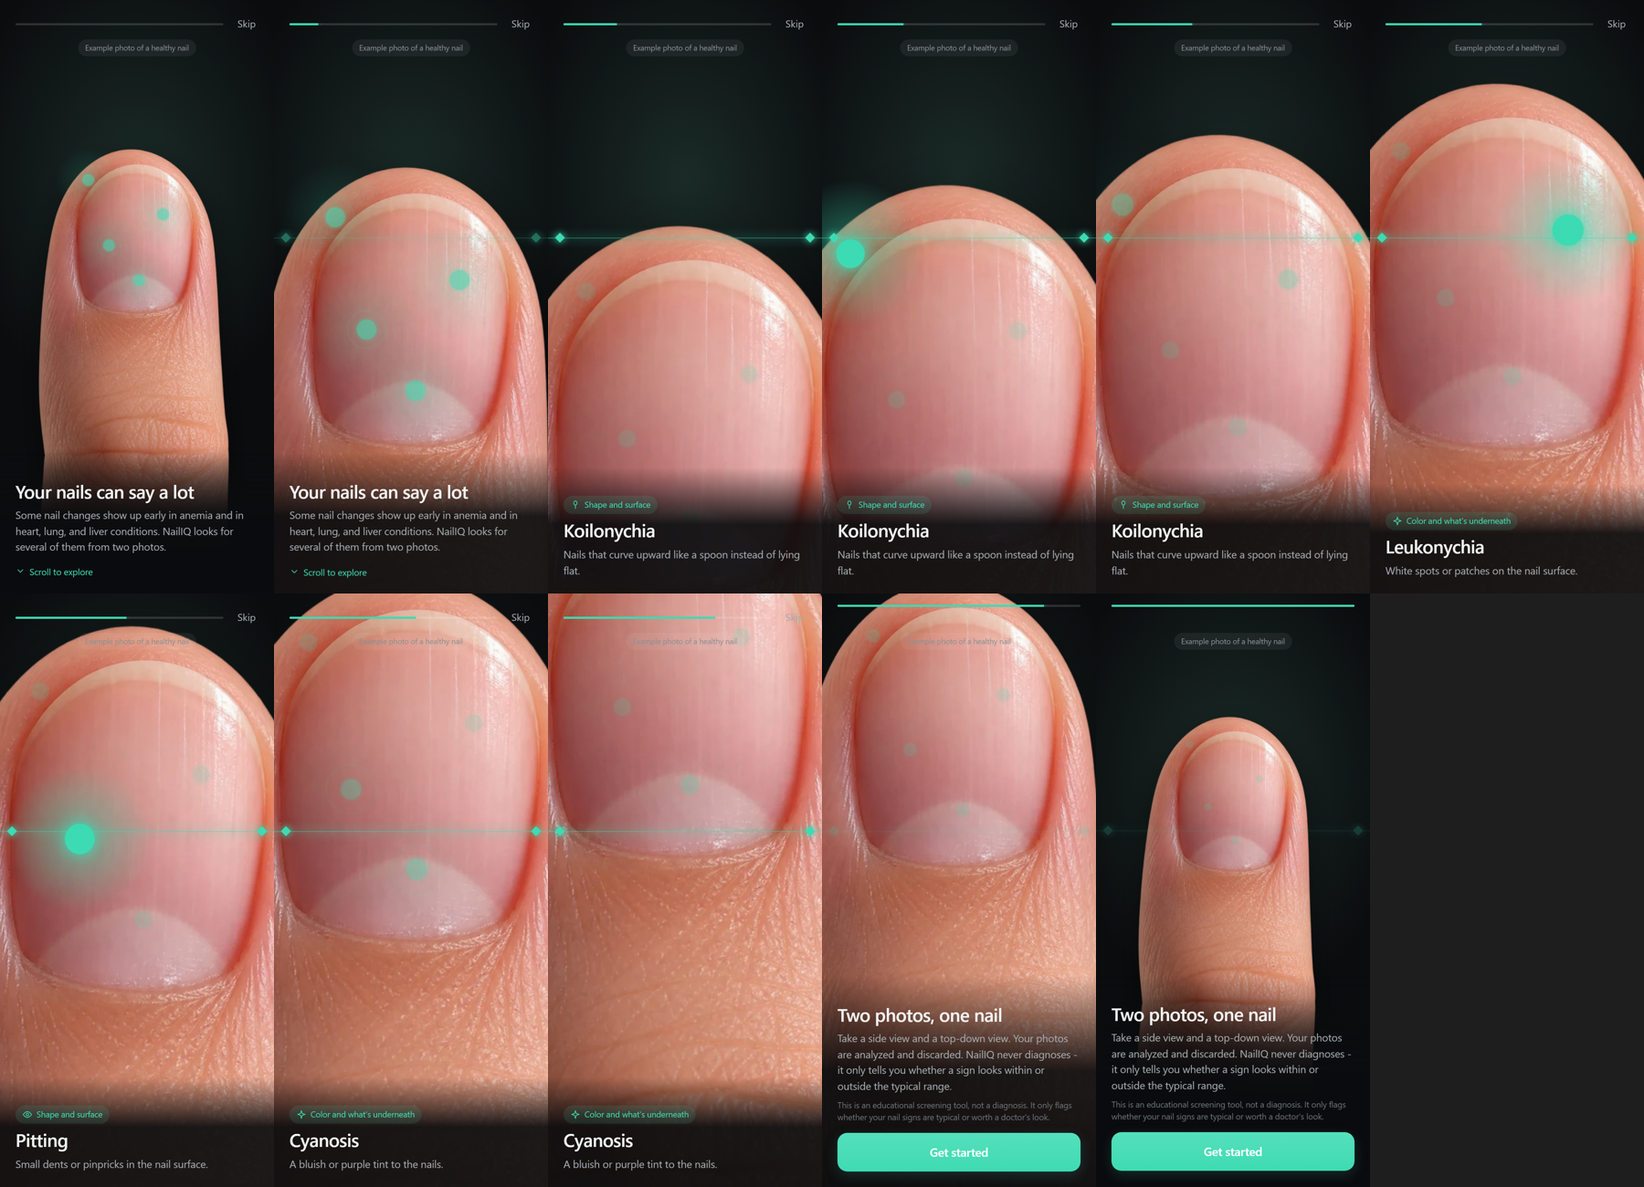
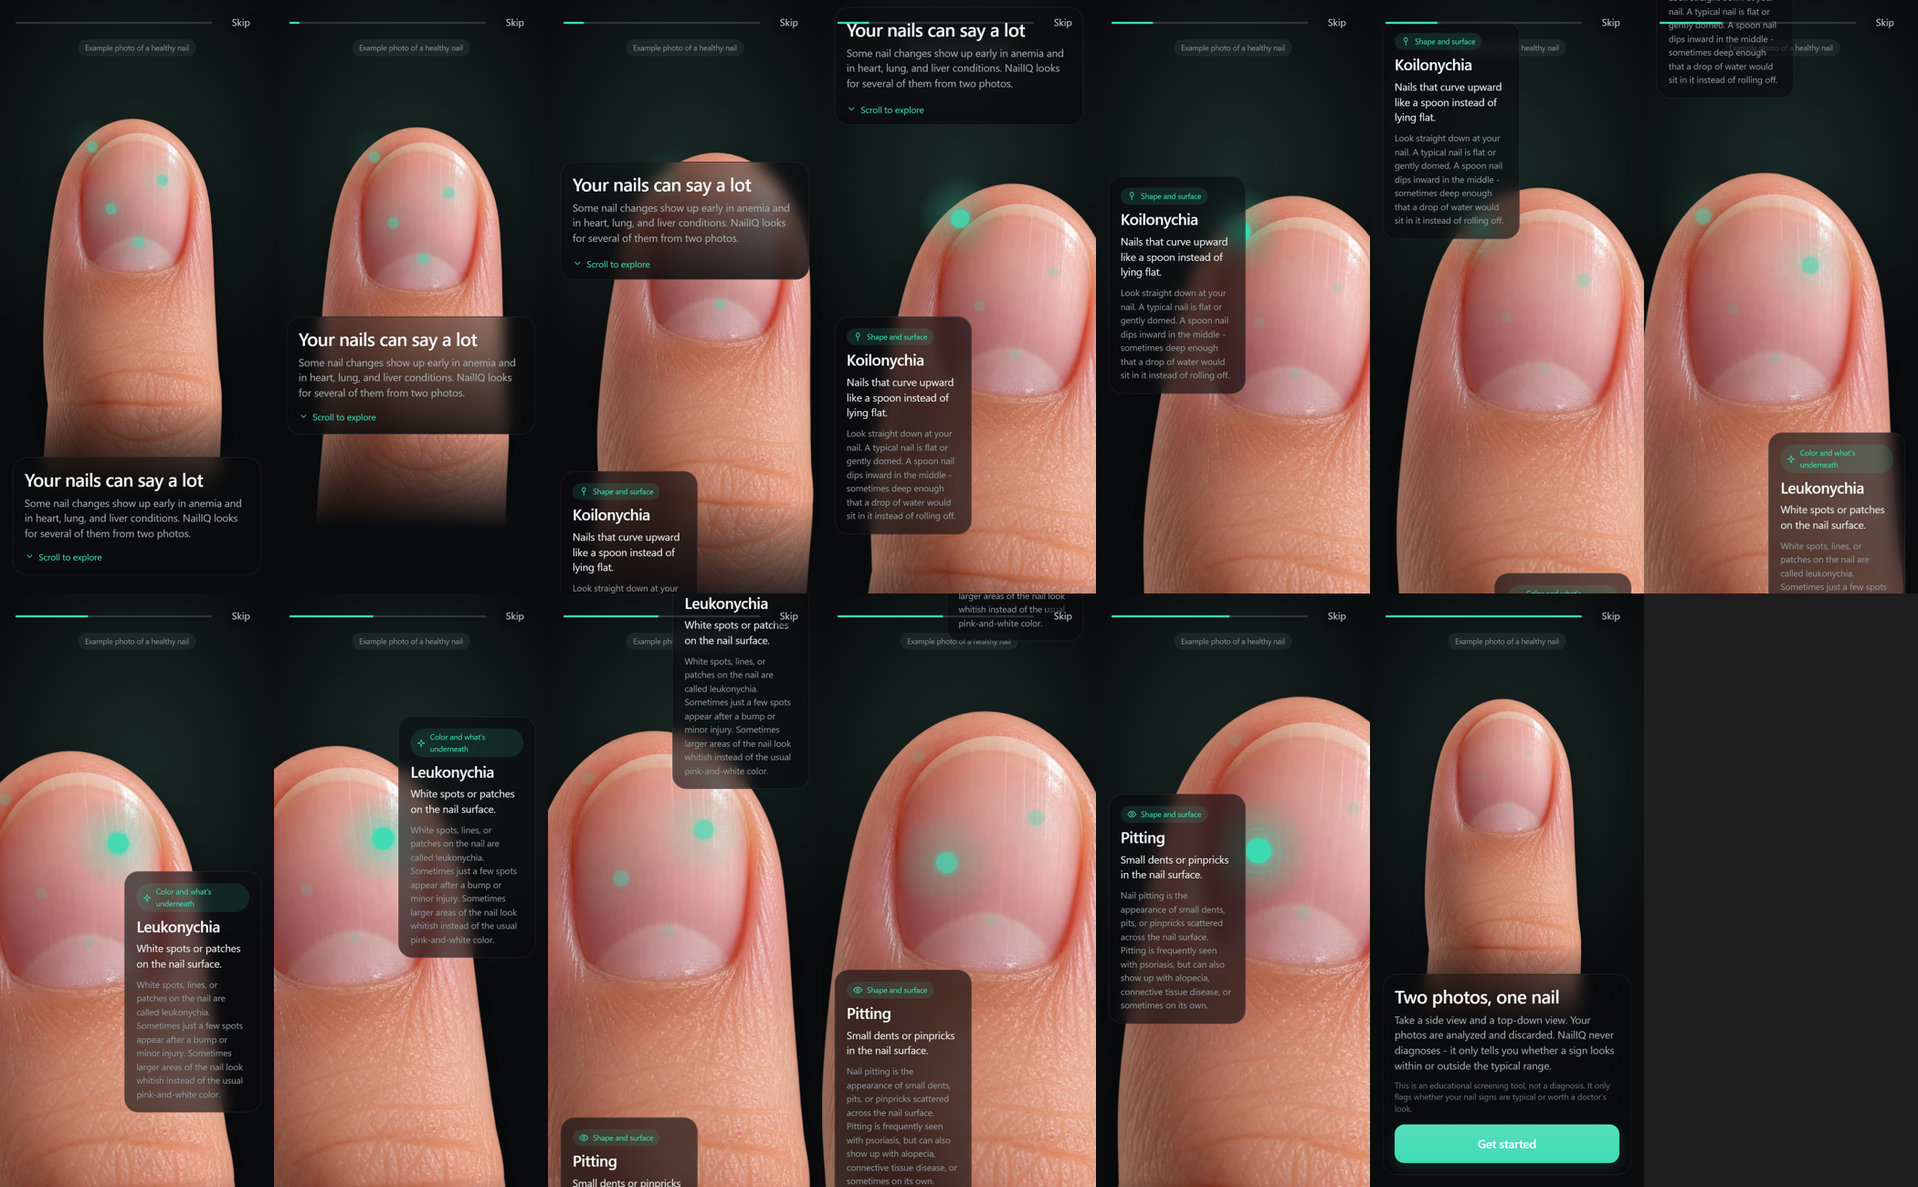
Onboarding: scrollytelling layout - text scrolls like a page, sticky nail glides to each section's pose

diff --git a/frontend/src/components/Onboarding.jsx b/frontend/src/components/Onboarding.jsx
@@ -10,29 +10,26 @@ import nailPhoto from '../assets/onboarding-nail.webp'
 const IMG_W = 900
 const IMG_H = 1820
 const IMG_AR = IMG_W / IMG_H
-const SIGNS = [
-  { key: 'koilonychia', x: 0.3, y: 0.27, group: 'shape' },
-  { key: 'leukonychia', x: 0.6, y: 0.34, group: 'color' },
-  { key: 'pitting', x: 0.38, y: 0.4, group: 'shape' },
-  { key: 'cyanosis', x: 0.5, y: 0.47, group: 'color' },
-]
+const NAIL_X = 0.49
 
-// Camera path, in terms of which point of the photo sits on the fixed scan line (REF_Y of the screen): zoom in to the
-// fingertip (intro), glide DOWN the finger through the signs (travel), pull back out (outro).
-const REF_Y = 0.4
-const FOCUS_X = 0.49
-const START = { s: 0.85, cy: 0.385 }
-const TOP = { s: 1.9, cy: 0.22 }
-const BOTTOM = { s: 1.9, cy: 0.52 }
-const END = { s: 0.8, cy: 0.45 }
-const NEAR_WINDOW = 0.045 // how close (photo fraction) a point must be to the scan line to light up
+// One scroll section each: the text scrolls like a normal page while the sticky photo glides to that section's pose.
+// `side` is where the text sits; the nail moves to the opposite side. tx/ty are where the focus point lands on screen.
+const SECTIONS = [
+  { id: 'welcome', wide: true, focus: { x: NAIL_X, y: 0.385 }, tx: 0.5, ty: 0.34, s: 0.8, r: 0 },
+  { id: 'koilonychia', side: 'left', group: 'shape', focus: { x: NAIL_X, y: 0.27 }, tx: 0.76, ty: 0.4, s: 1.15, r: 5, dot: { x: 0.3, y: 0.27 } },
+  { id: 'leukonychia', side: 'right', group: 'color', focus: { x: NAIL_X, y: 0.34 }, tx: 0.24, ty: 0.42, s: 1.25, r: -5, dot: { x: 0.6, y: 0.34 } },
+  { id: 'pitting', side: 'left', group: 'shape', focus: { x: NAIL_X, y: 0.4 }, tx: 0.76, ty: 0.44, s: 1.4, r: 5, dot: { x: 0.38, y: 0.4 } },
+  { id: 'cyanosis', side: 'right', group: 'color', focus: { x: NAIL_X, y: 0.45 }, tx: 0.24, ty: 0.4, s: 1.25, r: -5, dot: { x: 0.5, y: 0.47 } },
+  { id: 'photos', wide: true, focus: { x: NAIL_X, y: 0.385 }, tx: 0.5, ty: 0.3, s: 0.7, r: 0 },
+]
+const SIGN_SECTIONS = SECTIONS.filter((s) => s.dot)
 
 const ease = (x) => x * x * (3 - 2 * x)
 const lerp = (a, b, t) => a + (b - a) * t
 const clamp01 = (x) => Math.min(1, Math.max(0, x))
 
 // The example nail photo with the sign points drawn over it (SVG in the photo's own coordinates).
-function NailPhoto({ near, mode }) {
+function NailPhoto({ near }) {
   return (
     <div className="ob-nail">
       <img className="ob-nail-img" src={nailPhoto} alt="" draggable="false" />
@@ -43,12 +40,12 @@ function NailPhoto({ near, mode }) {
             <stop offset="1" stopColor="#3ddbb3" stopOpacity="0" />
           </radialGradient>
         </defs>
-        {SIGNS.map((p) => (
+        {SIGN_SECTIONS.map((p) => (
           <g
-            key={p.key}
-            className={`ob-point ${near[p.key] > 0.6 ? 'is-active' : ''}`}
-            style={{ '--near': mode === 'none' ? 0 : near[p.key] }}
-            transform={`translate(${p.x * IMG_W} ${p.y * IMG_H})`}
+            key={p.id}
+            className={`ob-point ${near[p.id] > 0.6 ? 'is-active' : ''}`}
+            style={{ '--near': near[p.id] }}
+            transform={`translate(${p.dot.x * IMG_W} ${p.dot.y * IMG_H})`}
           >
             <circle className="ob-point-zone" r="120" fill="url(#obZone)" />
             <circle className="ob-point-ring" r="40" />
@@ -64,13 +61,14 @@ export default function Onboarding({ onDone }) {
   const { t } = useI18n()
   const scrollerRef = useRef(null)
   const [size, setSize] = useState({ W: 390, H: 844 })
-  const [y, setY] = useState(0) // scroll position in px
+  const [y, setY] = useState(0)
   const reduced = typeof document !== 'undefined' && document.documentElement.classList.contains('a11y-reduce-motion')
 
-  const intro = size.H * 0.5
-  const travel = size.H * 0.95
-  const outro = size.H * 0.5
-  const total = intro + travel + outro
+  // section heights (px) and the scroll position at which each section's text is centered
+  const heights = SECTIONS.map((sec) => (sec.id === 'welcome' ? size.H : size.H * 0.95))
+  const tops = heights.map((_, i) => heights.slice(0, i).reduce((a, b) => a + b, 0))
+  const maxScroll = heights.reduce((a, b) => a + b, 0) - size.H
+  const anchors = SECTIONS.map((_, i) => Math.min(maxScroll, Math.max(0, tops[i] + heights[i] / 2 - size.H / 2)))
 
   useEffect(() => {
     const el = scrollerRef.current
@@ -85,107 +83,112 @@ export default function Onboarding({ onDone }) {
   useEffect(() => {
     const el = scrollerRef.current
     if (!el) return
-    const onScroll = () => setY(Math.min(total, Math.max(0, el.scrollTop)))
+    const onScroll = () => setY(el.scrollTop)
     onScroll()
     el.addEventListener('scroll', onScroll, { passive: true })
     return () => el.removeEventListener('scroll', onScroll)
-  }, [total])
+  }, [])
 
-  // continuous camera: no steps, so scrolling reads as moving down the finger
-  let s
-  let cy
-  if (y < intro) {
-    const u = ease(y / intro)
-    s = lerp(START.s, TOP.s, u)
-    cy = lerp(START.cy, TOP.cy, u)
-  } else if (y < intro + travel) {
-    const u = (y - intro) / travel
-    s = TOP.s
-    cy = lerp(TOP.cy, BOTTOM.cy, u)
-  } else {
-    const u = ease((y - intro - travel) / outro)
-    s = lerp(BOTTOM.s, END.s, u)
-    cy = lerp(BOTTOM.cy, END.cy, u)
+  // which two sections we are between, and how far (0..1) toward the next
+  let i = 0
+  while (i < SECTIONS.length - 2 && y >= anchors[i + 1]) i += 1
+  const span = Math.max(1, anchors[i + 1] - anchors[i])
+  let u = clamp01((y - anchors[i]) / span)
+  u = reduced ? Math.round(u) : ease(u)
+  const A = SECTIONS[i]
+  const B = SECTIONS[i + 1]
+  const pose = {
+    fx: lerp(A.focus.x, B.focus.x, u),
+    fy: lerp(A.focus.y, B.focus.y, u),
+    tx: lerp(A.tx, B.tx, u),
+    ty: lerp(A.ty, B.ty, u),
+    s: lerp(A.s, B.s, u),
+    r: lerp(A.r, B.r, u),
   }
-  const phase = y < intro * 0.55 ? 'welcome' : y < intro + travel + outro * 0.25 ? 'signs' : 'photos'
-  const mode = phase === 'welcome' ? 'all' : phase === 'photos' ? 'none' : 'focus'
 
+  // each sign's point glows while the camera is on (or arriving at) its section; the welcome view shows them all softly
   const near = {}
-  SIGNS.forEach((p) => {
-    near[p.key] = mode === 'all' ? 0.55 : clamp01(1 - Math.abs(cy - p.y) / NEAR_WINDOW)
+  SIGN_SECTIONS.forEach((p) => {
+    const w = (A.id === p.id ? 1 - u : 0) + (B.id === p.id ? u : 0)
+    const soft = A.id === 'welcome' ? (1 - u) * 0.5 : 0
+    near[p.id] = clamp01(Math.max(w, soft))
   })
-  const current = SIGNS.reduce((best, p) => (Math.abs(cy - p.y) < Math.abs(cy - best.y) ? p : best), SIGNS[0])
 
-  // put photo point (FOCUS_X, cy) on the scan line, scaled about the camera box center
+  // place photo point (fx, fy) at screen (tx, ty); transform is applied about the camera box center
   const Wc = size.H * IMG_AR
-  const dx = -s * (FOCUS_X * Wc - Wc / 2)
-  const dy = REF_Y * size.H - size.H / 2 - s * (cy * size.H - size.H / 2)
-  const scanOpacity = phase === 'signs' ? 1 : phase === 'welcome' ? clamp01((y / intro) * 1.4) * 0.6 : 0.2
+  const px = pose.fx * Wc - Wc / 2
+  const py = pose.fy * size.H - size.H / 2
+  const rad = (pose.r * Math.PI) / 180
+  const rx = Math.cos(rad) * px - Math.sin(rad) * py
+  const ry = Math.sin(rad) * px + Math.cos(rad) * py
+  const dx = pose.tx * size.W - size.W / 2 - pose.s * rx
+  const dy = pose.ty * size.H - size.H / 2 - pose.s * ry
 
   const finish = () => {
     markOnboarded()
     onDone()
   }
-
-  const name = signNameParts(t(`findingNames.${current.key}`))
+  const lastSection = y >= maxScroll - 4
 
   return (
     <div className="onboarding" role="dialog" aria-modal="true" aria-label={t('onboarding.label')}>
+      <div className="ob-top">
+        <div className="ob-progress" aria-hidden="true"><span style={{ width: `${maxScroll ? (y / maxScroll) * 100 : 0}%` }} /></div>
+        {!lastSection && <button type="button" className="ob-skip" onClick={finish}>{t('onboarding.skip')}</button>}
+      </div>
+
       <div className="ob-scroller" ref={scrollerRef} tabIndex={0}>
-        <div className="ob-track" style={{ height: size.H + total }}>
+        <div className="ob-track">
           <div className="ob-sticky" style={{ height: size.H }}>
-            <div className="ob-stage">
-              <div
-                className="ob-camera"
-                style={{
-                  width: Wc,
-                  height: size.H,
-                  left: (size.W - Wc) / 2,
-                  transform: `translate(${dx}px, ${dy}px) scale(${s})`,
-                }}
+            <div
+              className="ob-camera"
+              style={{
+                width: Wc,
+                height: size.H,
+                left: (size.W - Wc) / 2,
+                transform: `translate(${dx}px, ${dy}px) rotate(${pose.r}deg) scale(${pose.s})`,
+              }}
+            >
+              <NailPhoto near={near} />
+            </div>
+            <span className="ob-example">{t('onboarding.example')}</span>
+          </div>
+
+          <div className="ob-secs" style={{ marginTop: -size.H }}>
+            {SECTIONS.map((sec, k) => (
+              <section
+                key={sec.id}
+                className={`ob-sec ${sec.wide ? 'ob-sec--wide' : `ob-sec--${sec.side}`}`}
+                style={{ height: heights[k] }}
               >
-                <NailPhoto near={near} mode={mode} />
-              </div>
-              <div className="ob-reticle" style={{ top: `${REF_Y * 100}%`, opacity: reduced ? 0.4 : scanOpacity }} aria-hidden="true">
-                <span /><span />
-              </div>
-              <span className="ob-example">{t('onboarding.example')}</span>
-            </div>
-
-            <div className="ob-top">
-              <div className="ob-progress" aria-hidden="true"><span style={{ width: `${(y / total) * 100}%` }} /></div>
-              {phase !== 'photos' && (
-                <button type="button" className="ob-skip" onClick={finish}>{t('onboarding.skip')}</button>
-              )}
-            </div>
-
-            <div className="ob-panel" aria-live="polite">
-              <div className="ob-card" key={phase === 'signs' ? current.key : phase}>
-                {phase === 'signs' ? (
-                  <>
-                    <span className="ob-kicker">
-                      <Icon name={CONDITION_ICONS[current.key]} size={14} /> {t(`onboarding.${current.group}Title`)}
-                    </span>
-                    <h2 className="ob-title">{name.term}</h2>
-                    <p className="ob-text">{t(`conditions.${current.key}.summary`)}</p>
-                  </>
-                ) : (
-                  <>
-                    <h2 className="ob-title">{t(`onboarding.${phase}Title`)}</h2>
-                    <p className="ob-text">{t(`onboarding.${phase}Text`)}</p>
-                  </>
-                )}
-                {phase === 'welcome' && (
-                  <p className="ob-hint"><Icon name="chevronRight" size={14} className="rot-down" /> {t('onboarding.scrollHint')}</p>
-                )}
-                {phase === 'photos' && (
-                  <>
-                    <p className="ob-fine">{t('app.disclaimer')}</p>
-                    <button type="button" className="primary-btn ob-start" onClick={finish}>{t('onboarding.start')}</button>
-                  </>
-                )}
-              </div>
-            </div>
+                <div className="ob-card">
+                  {sec.dot ? (
+                    <>
+                      <span className="ob-kicker">
+                        <Icon name={CONDITION_ICONS[sec.id]} size={14} /> {t(`onboarding.${sec.group}Title`)}
+                      </span>
+                      <h2 className="ob-title">{signNameParts(t(`findingNames.${sec.id}`)).term}</h2>
+                      <p className="ob-text">{t(`conditions.${sec.id}.summary`)}</p>
+                      <p className="ob-lead">{t(`conditions.${sec.id}.lead`)}</p>
+                    </>
+                  ) : (
+                    <>
+                      <h2 className="ob-title">{t(`onboarding.${sec.id}Title`)}</h2>
+                      <p className="ob-text">{t(`onboarding.${sec.id}Text`)}</p>
+                    </>
+                  )}
+                  {sec.id === 'welcome' && (
+                    <p className="ob-hint"><Icon name="chevronRight" size={14} className="rot-down" /> {t('onboarding.scrollHint')}</p>
+                  )}
+                  {sec.id === 'photos' && (
+                    <>
+                      <p className="ob-fine">{t('app.disclaimer')}</p>
+                      <button type="button" className="primary-btn ob-start" onClick={finish}>{t('onboarding.start')}</button>
+                    </>
+                  )}
+                </div>
+              </section>
+            ))}
           </div>
         </div>
       </div>

diff --git a/frontend/src/App.css b/frontend/src/App.css
@@ -2525,61 +2525,53 @@
 .hero-photo-wrap { position: static; display: block; }
 .hero-photo-sticky { position: sticky; top: 60px; display: flex; flex-direction: column; align-items: flex-start; }
 
-/* ================= Onboarding: scroll-driven tour. The finger flies around the screen as you scroll. ================= */
+/* ================= Onboarding: scrollytelling. Text scrolls like a page; the sticky nail photo glides to each section's pose. ================= */
 .onboarding { position: absolute; inset: 0; z-index: 3000; background: #0b0c0e; color: #f2f4f4; }
 .ob-scroller { position: absolute; inset: 0; overflow-y: auto; overscroll-behavior: contain; scrollbar-width: none; outline: none; }
 .ob-scroller::-webkit-scrollbar { display: none; }
 .ob-track { position: relative; }
 .ob-sticky { position: sticky; top: 0; overflow: hidden; background: radial-gradient(90% 55% at 50% 30%, #1a2b27 0%, #0b0c0e 72%); }
-.ob-stage { position: absolute; inset: 0; overflow: hidden; perspective: 900px; }
 .ob-camera { position: absolute; top: 0; transform-origin: 50% 50%; will-change: transform; }
-.ob-nail { position: relative; width: 100%; height: 100%; animation: ob-sway 9s ease-in-out infinite; filter: drop-shadow(0 20px 30px rgba(0, 0, 0, 0.5)); }
+.ob-nail { position: relative; width: 100%; height: 100%; filter: drop-shadow(0 20px 30px rgba(0, 0, 0, 0.5)); }
 .ob-nail-img { display: block; width: 100%; height: 100%; object-fit: contain; user-select: none; -webkit-mask-image: linear-gradient(to bottom, #000 80%, transparent 100%); mask-image: linear-gradient(to bottom, #000 80%, transparent 100%); }
 .ob-nail-overlay { position: absolute; inset: 0; width: 100%; height: 100%; overflow: visible; }
-@keyframes ob-sway {
-  0%, 100% { transform: rotateY(-12deg) rotateZ(-1.5deg); }
-  50% { transform: rotateY(12deg) rotateZ(1.5deg); }
-}
-.ob-scan { animation: ob-scan 3.4s ease-in-out infinite; }
-@keyframes ob-scan { 0% { transform: translateY(-220px); } 100% { transform: translateY(560px); } }
 .ob-example { position: absolute; top: 56px; left: 50%; transform: translateX(-50%); font-size: 0.6875rem; color: #8a9094; padding: 4px 10px; border-radius: 999px; background: rgba(255, 255, 255, 0.06); white-space: nowrap; }
 
-.ob-point { transition: opacity 0.4s; opacity: 0.85; }
-.ob-point.is-dim { opacity: 0.14; }
+/* sign points: --near (0..1) set per point from how close the camera is to that sign's section */
+.ob-point { opacity: calc(0.14 + 0.86 * var(--near, 0)); }
 .ob-point-core, .ob-point-ring, .ob-point-zone { transform-box: fill-box; transform-origin: center; }
-.ob-point-core { fill: #3ddbb3; filter: drop-shadow(0 0 4px #3ddbb3); transition: transform 0.4s var(--ease-spring); transform: scale(0.8); }
-.ob-point-ring { fill: none; stroke: #3ddbb3; stroke-width: 1.2; opacity: 0.35; }
-.ob-point-zone { opacity: 0; transition: opacity 0.4s; }
-.ob-point.is-active { opacity: 1; }
-.ob-point.is-active .ob-point-zone { opacity: 1; }
-.ob-point.is-active .ob-point-core { transform: scale(1.5); filter: drop-shadow(0 0 8px #3ddbb3); }
+.ob-point-core { fill: #3ddbb3; filter: drop-shadow(0 0 5px #3ddbb3); transform: scale(calc(0.8 + 0.8 * var(--near, 0))); }
+.ob-point-ring { fill: none; stroke: #3ddbb3; stroke-width: 1.2; opacity: 0.4; }
+.ob-point-zone { opacity: var(--near, 0); }
 .ob-point.is-active .ob-point-ring { animation: ob-ping 1.6s ease-out infinite; }
 @keyframes ob-ping { 0% { transform: scale(0.6); opacity: 0.9; } 100% { transform: scale(2.2); opacity: 0; } }
 
-.ob-top { position: absolute; top: 0; left: 0; right: 0; display: flex; align-items: center; gap: 16px; padding: max(env(safe-area-inset-top, 0px), 16px) 22px 6px; z-index: 2; }
+.ob-top { position: absolute; top: 0; left: 0; right: 0; display: flex; align-items: center; gap: 16px; padding: max(env(safe-area-inset-top, 0px), 16px) 22px 6px; z-index: 5; pointer-events: none; }
 .ob-progress { flex: 1; height: 3px; border-radius: 3px; background: rgba(255, 255, 255, 0.14); overflow: hidden; }
 .ob-progress span { display: block; height: 100%; background: #3ddbb3; box-shadow: 0 0 8px #3ddbb3; }
-.ob-skip { background: none; border: none; color: #a4abae; font-size: 0.875rem; padding: 8px 4px; }
+.ob-skip { background: rgba(11, 12, 14, 0.5); border: none; border-radius: 999px; color: #c4cacc; font-size: 0.875rem; padding: 6px 12px; pointer-events: auto; }
 
-.ob-panel { position: absolute; left: 0; right: 0; bottom: 0; padding: 40px 22px calc(22px + env(safe-area-inset-bottom, 0px)); background: linear-gradient(to bottom, transparent, rgba(11, 12, 14, 0.92) 45%); pointer-events: none; z-index: 2; }
-.ob-card { display: flex; flex-direction: column; gap: 8px; animation: finding-in 0.4s var(--ease-out) both; pointer-events: auto; }
-.ob-kicker { display: inline-flex; align-items: center; gap: 6px; align-self: flex-start; font-size: 0.75rem; color: #3ddbb3; padding: 4px 10px; border-radius: 999px; background: rgba(61, 219, 179, 0.12); }
-.ob-title { font-size: 1.625rem; font-weight: 500; letter-spacing: -0.02em; line-height: 1.15; }
-.ob-text { font-size: 0.9375rem; line-height: 1.5; color: #a4abae; }
-.ob-hint { display: inline-flex; align-items: center; gap: 6px; margin-top: 6px; font-size: 0.8125rem; color: #3ddbb3; animation: ob-bob 1.6s ease-in-out infinite; }
+.ob-secs { position: relative; z-index: 1; pointer-events: none; }
+.ob-sec { display: flex; align-items: center; padding: 0 18px; }
+.ob-sec--left { justify-content: flex-start; }
+.ob-sec--right { justify-content: flex-end; }
+.ob-sec--wide { align-items: flex-end; padding-bottom: calc(26px + env(safe-area-inset-bottom, 0px)); }
+.ob-card {
+  display: flex; flex-direction: column; gap: 8px; width: 55%; padding: 16px; border-radius: 20px;
+  background: rgba(11, 12, 14, 0.62); -webkit-backdrop-filter: blur(10px); backdrop-filter: blur(10px);
+  border: 1px solid rgba(255, 255, 255, 0.07); pointer-events: auto;
+}
+.ob-sec--wide .ob-card { width: 100%; background: linear-gradient(to bottom, rgba(11, 12, 14, 0.4), rgba(11, 12, 14, 0.85)); }
+.ob-kicker { display: inline-flex; align-items: center; gap: 6px; align-self: flex-start; font-size: 0.6875rem; color: #3ddbb3; padding: 4px 9px; border-radius: 999px; background: rgba(61, 219, 179, 0.12); }
+.ob-title { font-size: 1.375rem; font-weight: 500; letter-spacing: -0.02em; line-height: 1.15; word-break: break-word; }
+.ob-sec--wide .ob-title { font-size: 1.625rem; }
+.ob-text { font-size: 0.9375rem; line-height: 1.45; color: #e3e8e7; }
+.ob-sec--wide .ob-text { color: #a4abae; }
+.ob-lead { font-size: 0.8125rem; line-height: 1.5; color: #8f989b; }
+.ob-hint { display: inline-flex; align-items: center; gap: 6px; margin-top: 4px; font-size: 0.8125rem; color: #3ddbb3; animation: ob-bob 1.6s ease-in-out infinite; }
 .rot-down { transform: rotate(90deg); }
 @keyframes ob-bob { 0%, 100% { transform: translateY(0); } 50% { transform: translateY(4px); } }
 .ob-fine { font-size: 0.75rem; line-height: 1.4; color: #6f777b; }
 .ob-start { margin-top: 6px; }
-@media (prefers-reduced-motion: reduce) { .ob-nail, .ob-scan, .ob-hint { animation: none; } }
-:root.a11y-reduce-motion .ob-nail, :root.a11y-reduce-motion .ob-scan, :root.a11y-reduce-motion .ob-hint { animation: none; }
-
-/* Continuous scroll tour: points brighten as they cross the fixed scan line (--near is 0..1 per point). */
-.ob-point { opacity: calc(0.16 + 0.84 * var(--near, 0)); transition: none; }
-.ob-point .ob-point-core, .ob-point.is-active .ob-point-core { transform: scale(calc(0.8 + 0.8 * var(--near, 0))); transition: none; }
-.ob-point .ob-point-zone { opacity: var(--near, 0); transition: none; }
-.ob-reticle { position: absolute; left: 0; right: 0; height: 0; z-index: 1; pointer-events: none; transition: opacity 0.3s; }
-.ob-reticle::before { content: ''; position: absolute; left: 0; right: 0; top: 0; border-top: 1px solid rgba(61, 219, 179, 0.55); box-shadow: 0 0 14px 1px rgba(61, 219, 179, 0.55); }
-.ob-reticle span { position: absolute; top: -5px; width: 10px; height: 10px; background: #3ddbb3; transform: rotate(45deg); box-shadow: 0 0 10px #3ddbb3; }
-.ob-reticle span:first-child { left: 12px; }
-.ob-reticle span:last-child { right: 12px; }
+@media (prefers-reduced-motion: reduce) { .ob-hint { animation: none; } .ob-point.is-active .ob-point-ring { animation: none; } }
+:root.a11y-reduce-motion .ob-hint, :root.a11y-reduce-motion .ob-point.is-active .ob-point-ring { animation: none; }
